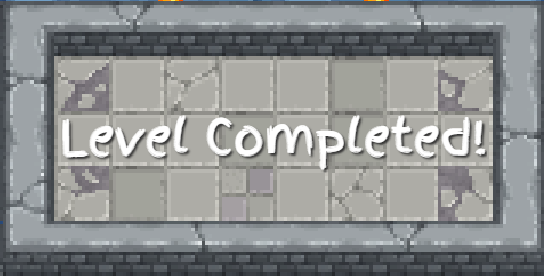
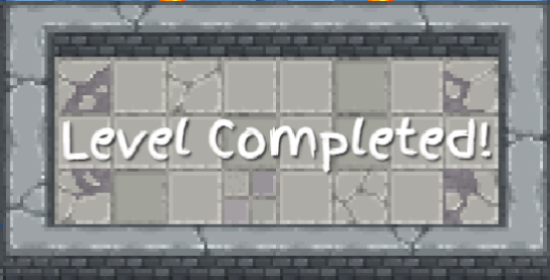
fix time error

diff --git a/src/GameLevel.java b/src/GameLevel.java
@@ -1,5 +1,4 @@
 import java.io.IOException;
-import java.util.*;
 
 import javafx.animation.AnimationTimer;
 import javafx.event.EventHandler;
@@ -9,6 +8,7 @@ import javafx.scene.Node;
 import javafx.scene.Parent;
 import javafx.scene.Scene;
 import javafx.scene.control.Button;
+import javafx.scene.control.Label;
 import javafx.scene.image.ImageView;
 import javafx.scene.input.KeyCode;
 import javafx.scene.input.KeyEvent;
@@ -19,24 +19,56 @@ public class GameLevel {
     private Group root;
     public Scene scene;
 
+    private Label completeLabel, failLabel;
+    private ImageView mapImageView[][];
+    private Button backButton;
+
+    private int level;
     private int WIDTH;
     private int HEIGHT;
-    private int level;
 
-    private ImageView mapImageView[][];
-
-    Timer pauseTimer;
     Character potato;
     Chunk[][] map;
 
+    private boolean isNewGame = false;
     private boolean isPressed = false;
     private static boolean north, south, west, east;
 
     private int[][][] m; 
 
-    private Button backButton;
-    
-    AnimationTimer timer;
+    private long previousTime = 0;
+    private AnimationTimer timer;
+    private AnimationTimer pauseTimer = new AnimationTimer() {
+
+        public void handle(long now) {
+            if(previousTime == 0) previousTime = now;
+            if(now-previousTime > 515000000) {
+                isPressed = false;
+                north = false;  
+                east = false;
+                south = false;
+                west = false;
+                previousTime = 0;
+                pauseTimer.stop();
+            }
+        }
+    };
+    private AnimationTimer labelTimer = new AnimationTimer() {
+
+        @Override
+        public void handle(long now) {
+            isPressed = true;
+
+            if(previousTime == 0) previousTime=now;
+            if(now-previousTime >= 3.0e9) {
+                completeLabel.setVisible(false);
+                GameLevel game = new GameLevel(level+1,8,6, Dungeon.mapInfo);
+                Dungeon.stage.setScene(game.scene);
+                labelTimer.stop();
+            }
+        }
+    };
+
     public GameLevel(int level, int w, int h, int[][][] m) {
         this.level = level;
         WIDTH = w;
@@ -50,15 +82,15 @@ public class GameLevel {
         setMapProperties();
         setHero();
         root.getChildren().add(potato);        
+        setEndGameLabel();
         
         scene = new Scene(root, 1152, 648, Color.BLACK);
         addKeyPressListener();
 
-
         timer = new AnimationTimer() {
             @Override
             public void handle(long now) {
-                if(map[potato.chunkY][potato.chunkX].isEnd) {
+                if(map[potato.chunkY][potato.chunkX].isEnd && isNewGame==false) {
                     try {
                         newGame();
                     } catch (Exception e) {
@@ -119,7 +151,6 @@ public class GameLevel {
             @Override
             public void handle(KeyEvent e) {
                 if(isPressed == false) {
-                    pauseTimer = new Timer();
                     KeyCode in = e.getCode();
 
                     if(in == KeyCode.W) {
@@ -131,7 +162,8 @@ public class GameLevel {
                         isPressed = true;
                         north = true;
                         potato.chunkY--;
-                        pauseTimer.schedule(new pause(), 500);
+                        potato.deltaDistance = 0;
+                        pauseTimer.start();
                     }
                     else if(in == KeyCode.A) {
                         if(map[potato.chunkY][potato.chunkX-1].isBlocked) {
@@ -142,7 +174,9 @@ public class GameLevel {
                         isPressed = true;
                         west = true;
                         potato.chunkX--;
-                        pauseTimer.schedule(new pause(), 500);
+                        potato.deltaDistance = 0;
+                        pauseTimer.start();
+                        // pauseTimer.schedule(new pause(), 500);
                     }
                     else if(in == KeyCode.S) {
                         if(map[potato.chunkY+1][potato.chunkX].isBlocked) {
@@ -153,7 +187,9 @@ public class GameLevel {
                         isPressed = true;
                         south = true;
                         potato.chunkY++;
-                        pauseTimer.schedule(new pause(), 500);
+                        potato.deltaDistance = 0;
+                        pauseTimer.start();
+                        // pauseTimer.schedule(new pause(), 500);
                     }
                     else if(in == KeyCode.D) {
                         if(map[potato.chunkY][potato.chunkX+1].isBlocked) {
@@ -164,7 +200,8 @@ public class GameLevel {
                         isPressed = true;
                         east = true;
                         potato.chunkX++;
-                        pauseTimer.schedule(new pause(), 500);
+                        potato.deltaDistance = 0;
+                        pauseTimer.start();
                     }
                 }
             }
@@ -184,13 +221,17 @@ public class GameLevel {
     }
 
     private void newGame() throws Exception {
-        Dungeon.levelStatus[level] = 1;
-        Dungeon.writeLevelInfo(false);
-        Dungeon.readLevelInfo();
+        if(isNewGame == false) {
+            isNewGame = true;
 
-        // GameLevel game = new GameLevel(level+1,8,6, Dungeon.mapInfo);
-        // game.setEnd(1,5);
-        // Dungeon.stage.setScene(game.scene);
+            Dungeon.levelStatus[level] = 1;
+            Dungeon.writeLevelInfo(false);
+            Dungeon.readLevelInfo();
+
+            completeLabel.setVisible(true);
+
+            labelTimer.start();
+        }
     }
 
     private void setBackButton() {
@@ -231,15 +272,32 @@ public class GameLevel {
         root.getChildren().add(backButton);
     }
 
-    class pause extends TimerTask {
-        @Override
-        public void run() {
-            isPressed = false;
-            north = false;  
-            east = false;
-            south = false;
-            west = false;
-            pauseTimer.cancel();
-        }
+    private void setEndGameLabel() {
+        completeLabel = new Label();
+        completeLabel.setPrefSize(550, 280);
+        completeLabel.setLayoutX(301);
+        completeLabel.setLayoutY(184);
+        completeLabel.setStyle("-fx-background-image:url(\"Images/levelComplete.png\")");
+        completeLabel.setVisible(false);
+        root.getChildren().add(completeLabel);
+
+        failLabel = new Label();
+        failLabel.setPrefSize(550, 280);
+        failLabel.setLayoutX(301);
+        failLabel.setLayoutY(184);
+        failLabel.setStyle("-fx-background-image:url(\"Images/levelFail.png\")");
+        failLabel.setVisible(false);
+        root.getChildren().add(failLabel);
     }
+
+    // class pause extends TimerTask {
+    //     @Override
+    //     public void run() {
+    //         isPressed = false;
+    //         north = false;  
+    //         east = false;
+    //         south = false;
+    //         west = false;
+    //     }
+    // }
 }

diff --git a/src/Character.java b/src/Character.java
@@ -13,6 +13,8 @@ public class Character extends Pane {
     int width = 64;
     int height = 69;
 
+    final int DISTANCE = 64;
+    int deltaDistance = 0;
     char direction = 'S';
     int chunkX=0;
     int chunkY=0;
@@ -29,18 +31,20 @@ public class Character extends Pane {
     public void moveX(int dx) {
         boolean isGoingRight = (dx >= 0) ? true : false;
 
-        for(int i=0 ; i<Math.abs(dx) ; i++) {
+        for(int i=0 ; i<Math.abs(dx) && deltaDistance<DISTANCE; i++) {
             if(isGoingRight) {
                 direction = 'D';
                 this.animation.setCount(9);
                 this.animation.setOffsetY(485);
-                this.setTranslateX(this.getTranslateX() + 2.1334);
+                this.setTranslateX(this.getTranslateX() + 2);
+                deltaDistance += 2;
             }
             else{
                 direction = 'A';
                 this.animation.setCount(9);
                 this.animation.setOffsetY(346);
-                this.setTranslateX(this.getTranslateX() - 2.1334);
+                this.setTranslateX(this.getTranslateX() - 2);
+                deltaDistance += 2;
             }
         }
     }
@@ -48,20 +52,22 @@ public class Character extends Pane {
     public void moveY(int dy) {
         boolean isGoingDown = (dy >= 0) ? true : false;
 
-        for(int i=0 ; i<Math.abs(dy) ; i++) {
+        for(int i=0 ; i<Math.abs(dy) && deltaDistance<DISTANCE; i++) {
             if(isGoingDown) 
             {
                 direction = 'S';
                 this.animation.setCount(9);
                 this.animation.setOffsetY(277);
-                this.setTranslateY(this.getTranslateY() + 2.1334);
+                this.setTranslateY(this.getTranslateY() + 2);
+                deltaDistance += 2;
             }
             else
             {
                 direction = 'W';
                 this.animation.setCount(9);
                 this.animation.setOffsetY(416); 
-                this.setTranslateY(this.getTranslateY() - 2.1334);
+                this.setTranslateY(this.getTranslateY() - 2);
+                deltaDistance += 2;
             }
         }
     }

diff --git a/src/Dungeon.java b/src/Dungeon.java
@@ -29,6 +29,7 @@ public class Dungeon extends Application
     public static Image backgroundImage;
     public static Image zeldaSpriteImage;
     public static Image coin;
+    public static Image levelComplete;
     public static Image[] mapImage;
 
     public static MediaPlayer beginPlayer;
@@ -62,6 +63,7 @@ public class Dungeon extends Application
     }
 
     public  void loadImages() {
+        levelComplete = new Image("Images\\levelComplete.png");
         coin = new Image(this.getClass().getResource("Images\\coin.gif").toExternalForm());
         back = new Image("Images\\back.png");
         iconImage = new Image("Images\\iconImage.png");
